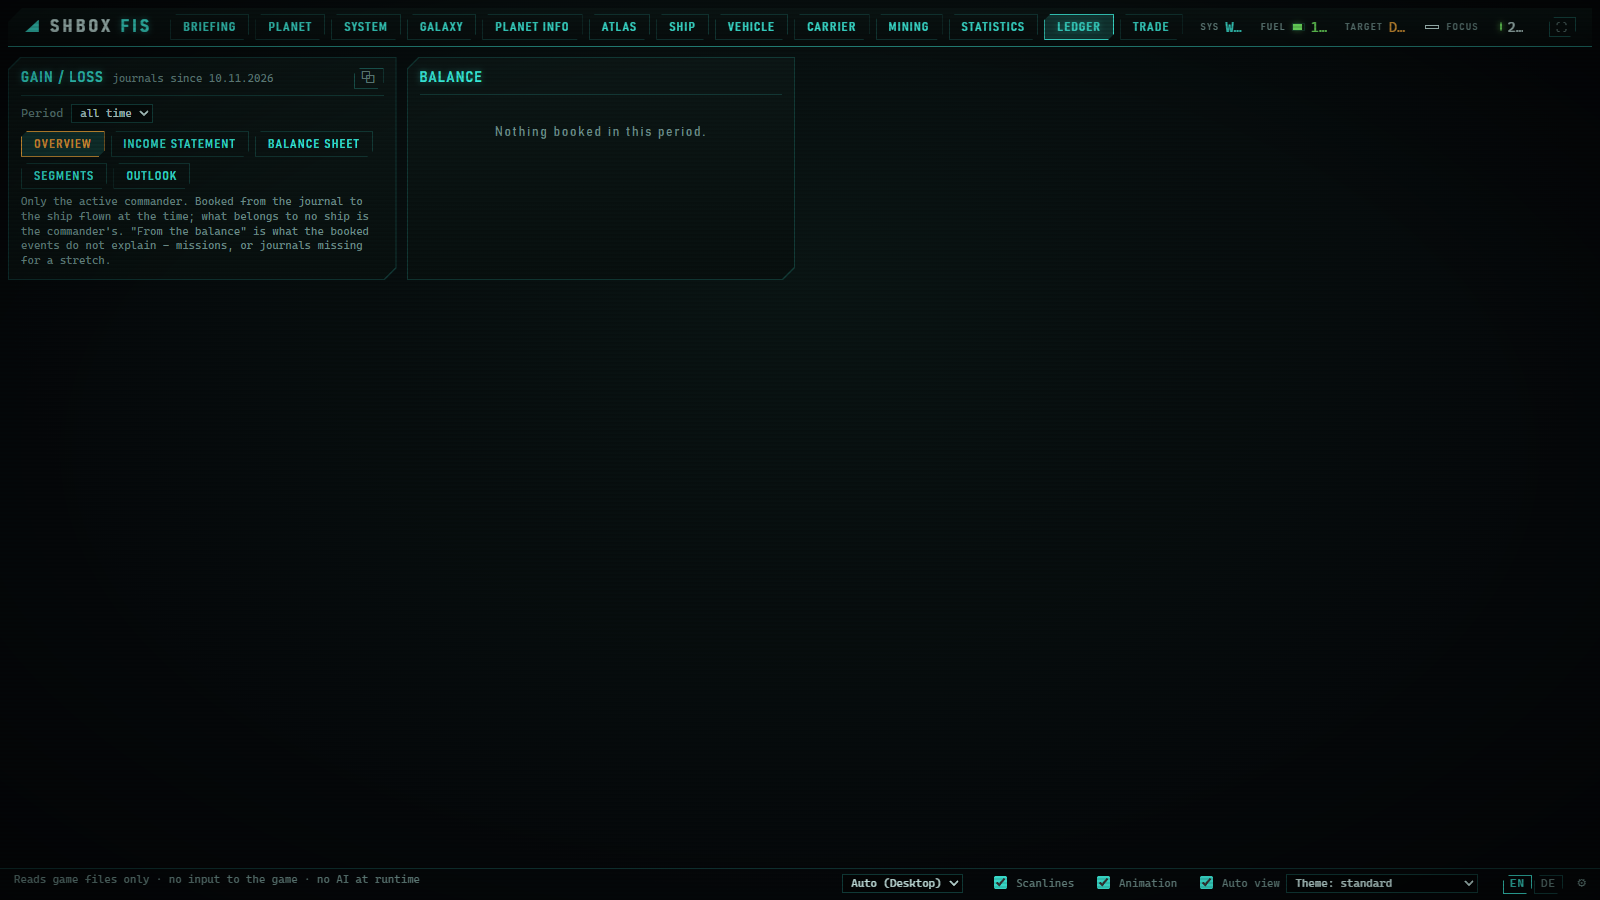
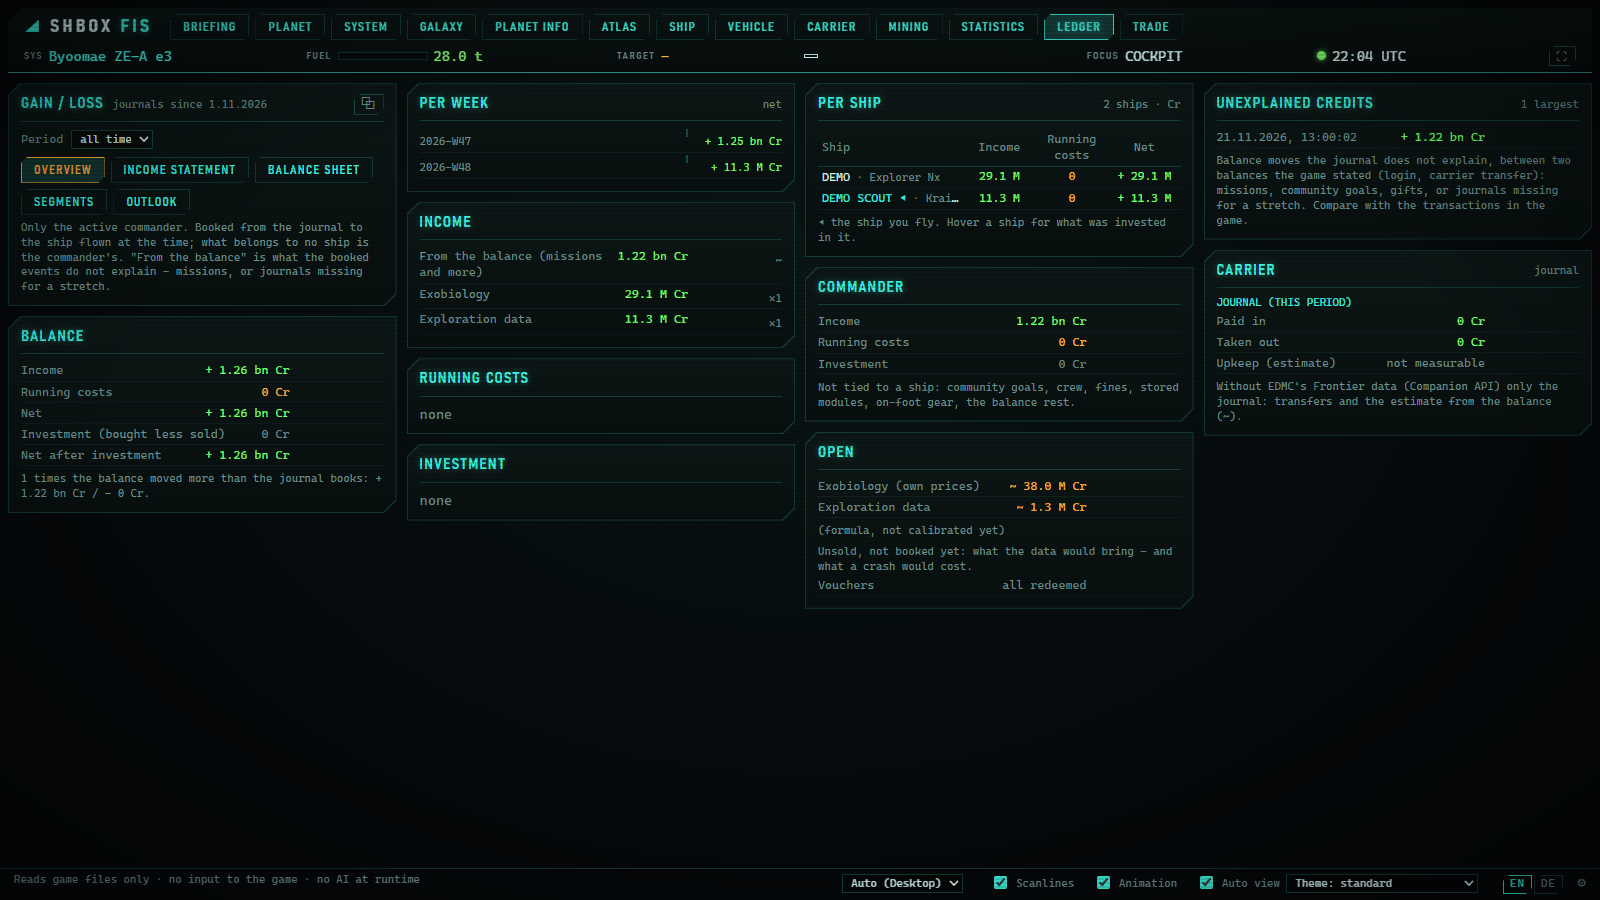
FIS README: New in 5.1 screenshots; SYSTEM teaser HIP 22961 in 3D
Demo data only (commander DEMO, a demo expedition in the Byoomae sector, a
demo stock of modules, materials and engineering), 1600 x 900, English,
standard; every page's text machine-checked for the developer's names,
ships, carrier, callsign, current system and paths before the shot. New:
MINING HISTORY, CARRIER EQUIPMENT, SHIP MATERIALS, STATISTICS RECORDS &
ATLAS / HISTORY / ENGINEERING / TRIP REPORT; redone: MINING, LEDGER,
PLANET INFO, GALAXY and the SYSTEM teaser (HIP 22961, 65 bodies, three
stars, twelve ringed - the user's choice of three).

diff --git a/FIS/README.md b/FIS/README.md
@@ -250,8 +250,45 @@ names too (`/#system`, `/#planetinfo`, `/#stats`).
 
 Demo data: a copy of a real plugin database with the commander's current
 area, carrier, earnings and surface tracks removed; commander and ship are
-called DEMO, the position is Wregoe GI-A c14-6. 1600 × 900, English, theme
-standard. Every page, in the order of the tabs.
+called DEMO, with a short demo expedition (Byoomae sector) for the trip
+report and a demo stock of modules, materials and engineering. 1600 × 900,
+English, theme standard.
+
+#### New in 5.1
+
+**MINING > HISTORY** - every mining field rated (purity, prospectors per good rock, by-catch); PLACES shows the chance of a good field before you mine there.
+
+![MINING HISTORY with the fields rated](docs/screenshots/demo51_mining_history.png)
+
+**CARRIER > EQUIPMENT** - every module in storage, where it is, what it fits; module, class, engineering and place as choices.
+
+![CARRIER EQUIPMENT](docs/screenshots/demo51_equipment.png)
+
+**SHIP > MATERIALS** - everything collected, with the count.
+
+![SHIP MATERIALS](docs/screenshots/demo51_materials.png)
+
+**STATISTICS > RECORDS & ATLAS** - records, the codex regions, stars and worlds, the way through the galaxy, ships compared, the bio catalogue.
+
+![STATISTICS RECORDS & ATLAS](docs/screenshots/demo51_records_atlas.png)
+
+**STATISTICS > HISTORY** - travel per day, week and month, and PLAY PATTERNS: when you play, weekday by hour.
+
+![STATISTICS HISTORY with play patterns](docs/screenshots/demo51_play_patterns.png)
+
+**STATISTICS > ENGINEERING** - the engineers' crafts and grades, and the materials flow.
+
+![STATISTICS ENGINEERING](docs/screenshots/demo51_engineering.png)
+
+**STATISTICS > TRIP REPORT** - pick a span: the way, the finds, the money, the route as a map; printable.
+
+![STATISTICS TRIP REPORT](docs/screenshots/demo51_trip_report.png)
+
+LEDGER (in reading order, balanced columns), PLANET INFO (a report in reading
+order), GALAXY (codex region outlines, legend entries that switch their layer)
+and MINING > PLACES are shown below with the other pages.
+
+#### Every page, in the order of the tabs
 
 **BRIEFING** - the next target and the sphere ahead: what is left, the chance of a find, the time and value still to come.
 
